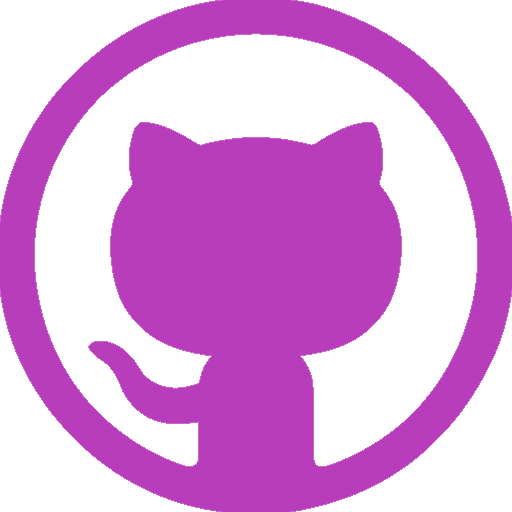
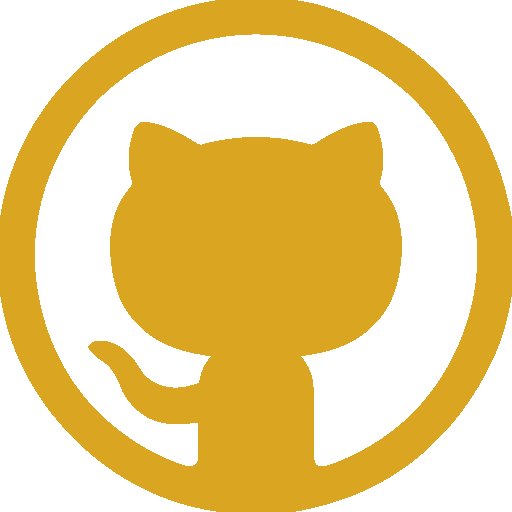
git hub gold

diff --git a/trabalho-final-portfolio/css/style.css b/trabalho-final-portfolio/css/style.css
@@ -384,8 +384,8 @@ footer a.link {
 
 footer a.git:hover {
     background-image: url('../img/github.png');
-    color: rgb(184, 61, 186);
-    border-top: 3px solid rgb(184, 61, 186);
+    color: rgb(218, 165, 32);
+    border-top: 3px solid rgb(218, 165, 32);;
     background-size: 35px;
 }
 
